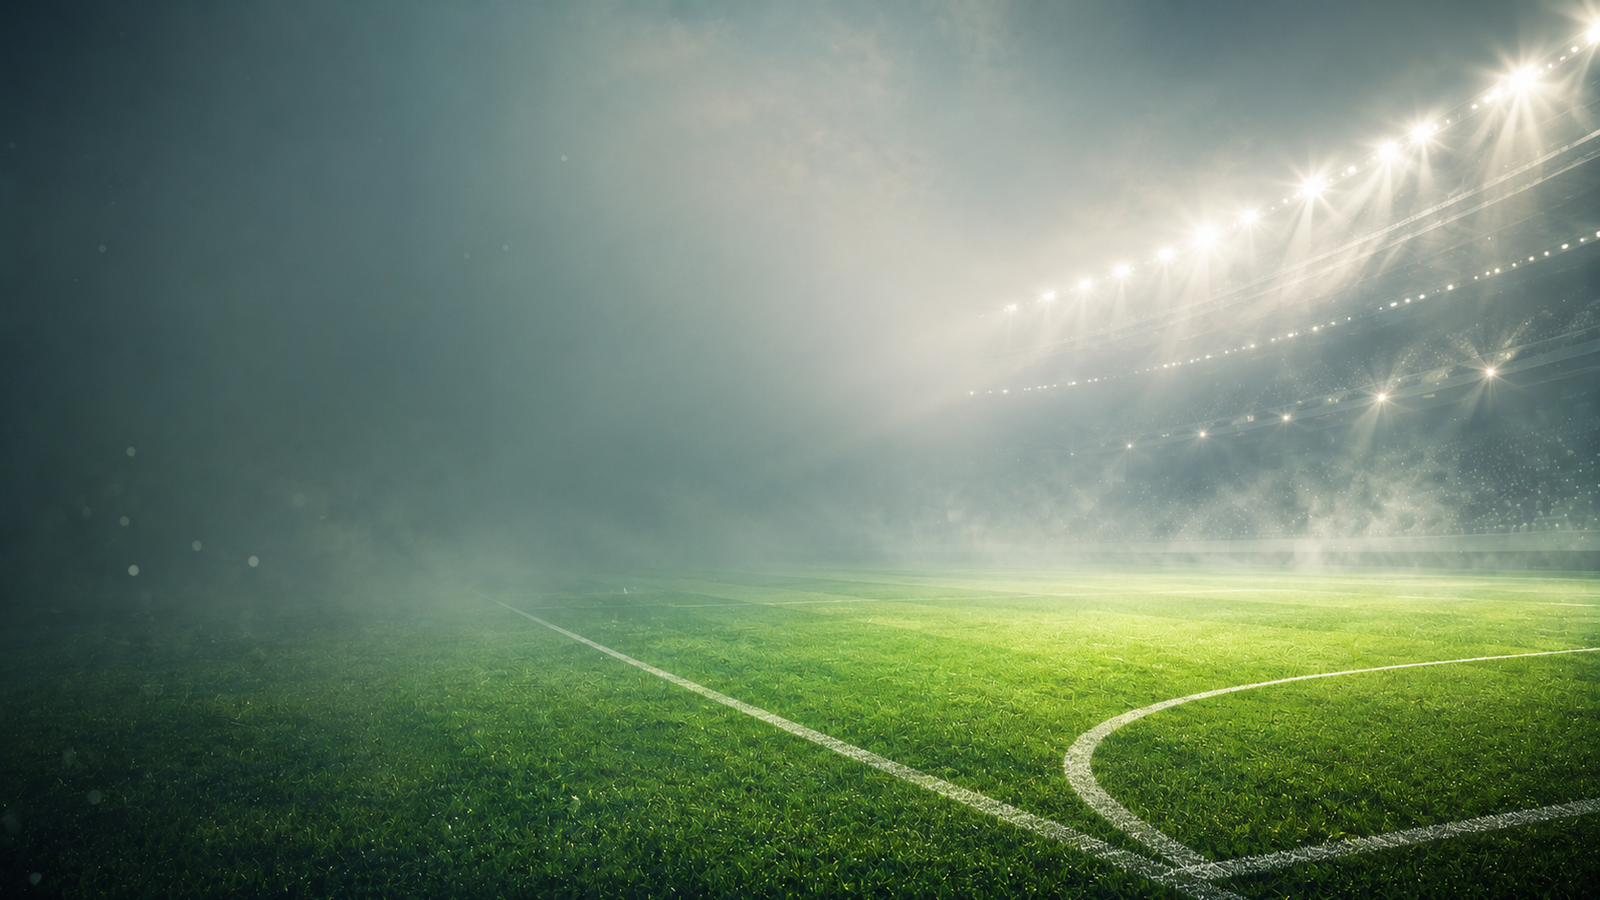
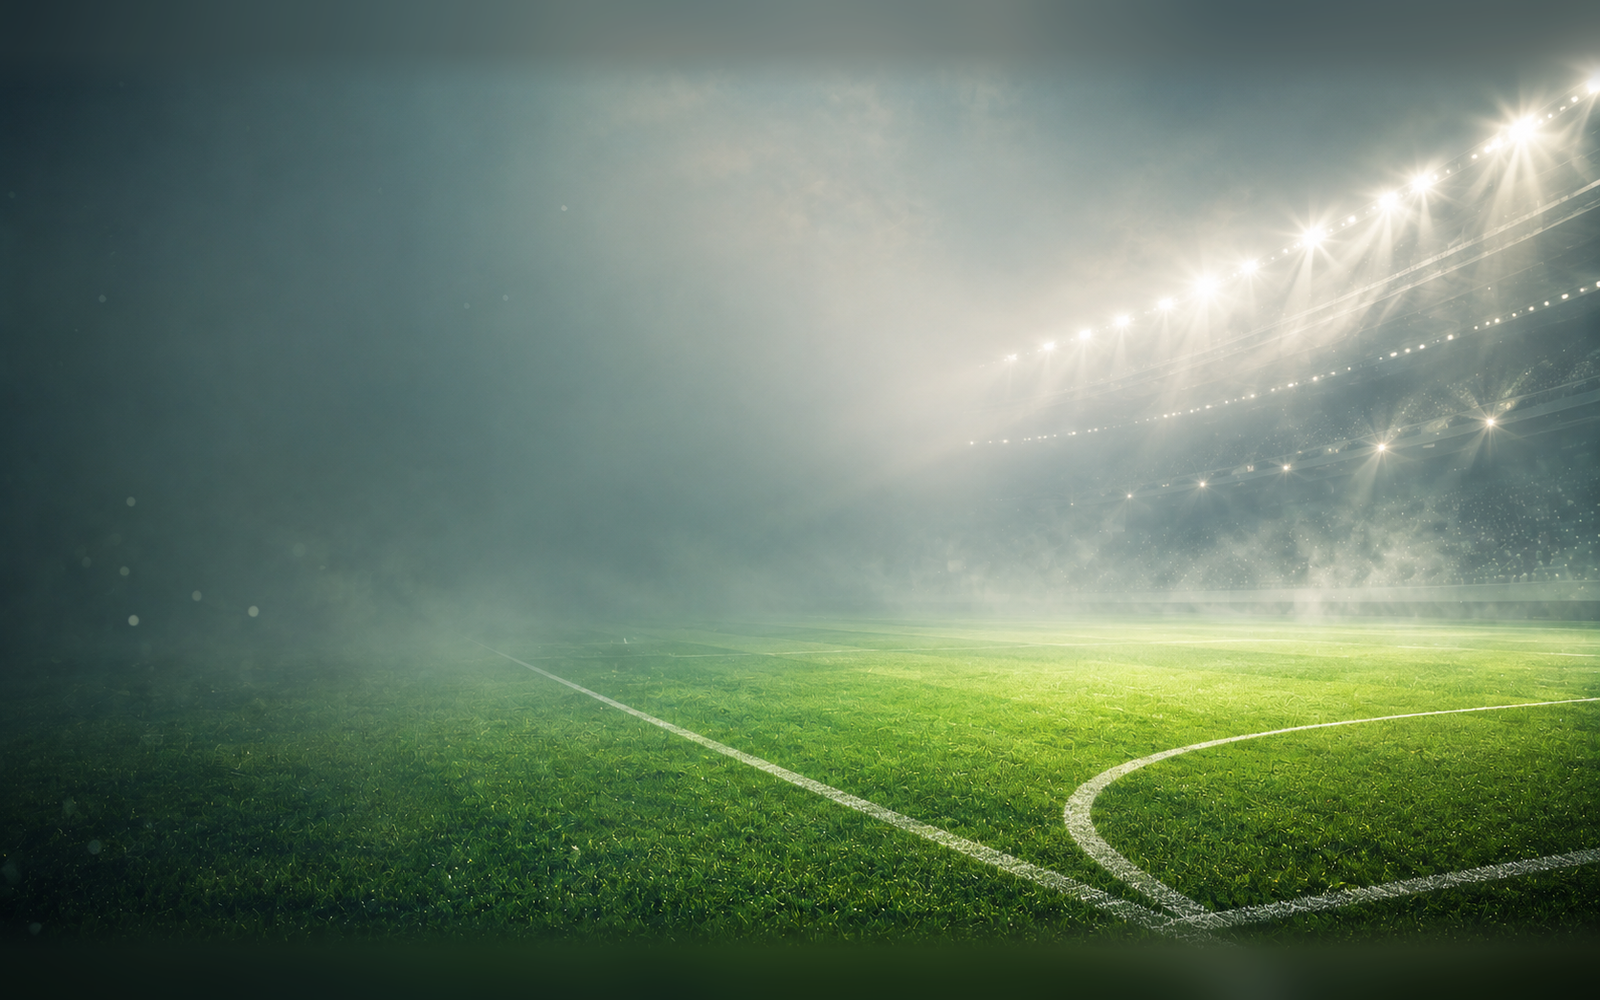
fix: replace hero theme assets with app-fit crops

diff --git a/daely-rn/app/(tabs)/today.tsx b/daely-rn/app/(tabs)/today.tsx
@@ -1,5 +1,5 @@
 import React, { useEffect, useMemo, useState } from 'react';
-import { ScrollView, StyleSheet, Text, View, Pressable, Image } from 'react-native';
+import { ScrollView, StyleSheet, Text, View, Pressable, ImageBackground } from 'react-native';
 import { useRouter, useLocalSearchParams } from 'expo-router';
 import { MaterialCommunityIcons } from '@expo/vector-icons';
 import { useTheme } from '@/hooks/use-theme';
@@ -211,8 +211,7 @@ const selectedShortcuts = shortcuts.map((id) => SHORTCUT_OPTIONS.find((opt) => o
       <View style={styles.heroWrap}>
         {selectedHeroBackground.source ? (
           <Pressable onPress={() => router.push('/(tabs)/hero-background-settings')}>
-            <View style={styles.heroCard}>
-              <Image source={selectedHeroBackground.source} resizeMode="contain" style={styles.heroCardImage} />
+            <ImageBackground source={selectedHeroBackground.source} resizeMode="cover" imageStyle={styles.heroImage} style={styles.heroCard}>
               <View style={styles.heroOverlay}>
                 <View style={styles.heroTopRow}>
                   <Text style={styles.heroDateLabel}>{todayLabel}</Text>
@@ -222,7 +221,7 @@ const selectedShortcuts = shortcuts.map((id) => SHORTCUT_OPTIONS.find((opt) => o
                   <Text style={styles.welcomeSubtitle}>Vandaag hoeft niet perfect te zijn. Wel bewust, actief en beter dan gisteren.</Text>
                 </View>
               </View>
-            </View>
+            </ImageBackground>
           </Pressable>
         ) : (
           <Pressable onPress={() => router.push('/(tabs)/hero-background-settings')}>
@@ -413,27 +412,15 @@ const styles = StyleSheet.create({
     borderRadius: 16,
     overflow: 'hidden',
     backgroundColor: '#0F172A',
-    position: 'relative',
   },
   heroCardFallback: {
     backgroundColor: '#111827',
-  },
-  heroCardImage: {
-    position: 'absolute',
-    top: 0,
-    left: 0,
-    width: '100%',
-    height: '100%',
   },
   heroImage: {
     borderRadius: 16,
   },
   heroOverlay: {
-    position: 'absolute',
-    top: 0,
-    left: 0,
-    width: '100%',
-    height: '100%',
+    flex: 1,
     backgroundColor: 'rgba(2,6,23,0.55)',
     padding: 16,
     paddingTop: 20,

diff --git a/daely-rn/app/(tabs)/hero-background-settings.tsx b/daely-rn/app/(tabs)/hero-background-settings.tsx
@@ -61,9 +61,9 @@ export default function HeroBackgroundSettingsScreen() {
                 onPress={() => handleSelect(option.id)}
               >
                 {option.source ? (
-                  <ImageBackground source={option.source} resizeMode="contain" style={styles.heroPickerCardImage} imageStyle={styles.heroPickerCardImageStyle}>
+                  <ImageBackground source={option.source} resizeMode="cover" style={styles.heroPickerCardImage} imageStyle={styles.heroPickerCardImageStyle}>
                     <LinearGradient
-                      colors={['rgba(15, 23, 42, 0.25)', 'rgba(17, 24, 39, 0.45)']}
+                      colors={['rgba(0,0,0,0.3)', 'rgba(0,0,0,0.6)']}
                       start={{ x: 0, y: 0 }}
                       end={{ x: 0, y: 1 }}
                       style={styles.heroPickerCardOverlay}
@@ -174,7 +174,6 @@ const styles = StyleSheet.create({
   heroPickerCardImage: {
     width: '100%',
     height: '100%',
-    backgroundColor: '#0F172A',
   },
   heroPickerCardImageStyle: {
     borderRadius: 10,
